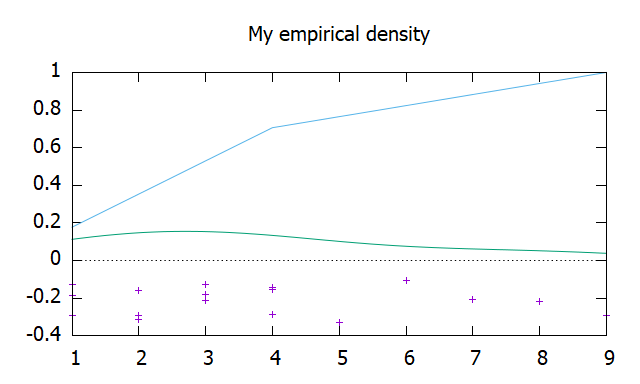
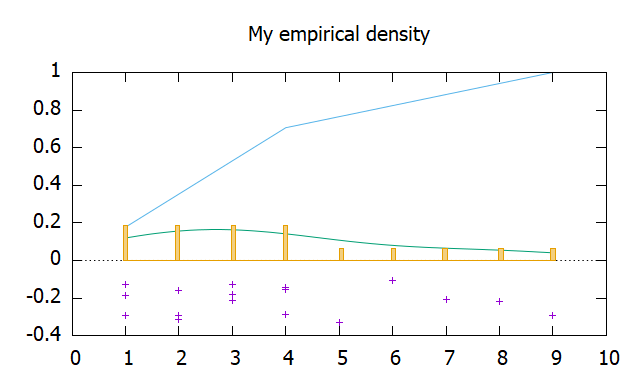
Add bins to density

diff --git a/src/density.rs b/src/density.rs
@@ -68,6 +68,7 @@ where
         config.set_custom("cdf", "true");
         config.set_custom("pdf", "true");
         config.set_custom("cloud", "true");
+        config.set_custom("bins", "true");
 
         Density {
             realizations,
@@ -130,6 +131,25 @@ where
         self
     }
 
+    /// Controls the plotting of bins representation of the density.
+    /// If true, it will appear in the plotting, otherwise it will not.
+    ///
+    /// # Default
+    ///
+    /// The default value is true.
+    /// ```
+    /// # use preexplorer::prelude::*;
+    /// let mut den = pre::Density::new((0..10));
+    /// assert_eq!(den.bins(), true);
+    /// den.set_bins(false);
+    /// assert_eq!(den.bins(), false);
+    /// ```
+    pub fn set_bins(&mut self, cloud: bool) -> &mut Self {
+        self.configuration_mut()
+            .set_custom("bins", cloud.to_string());
+        self
+    }
+
     pub fn cloud(&self) -> bool {
         match self.configuration().custom("cloud") {
             Some(cloud) => std::str::FromStr::from_str(cloud).unwrap(),
@@ -146,6 +166,13 @@ where
     pub fn cdf(&self) -> bool {
         match self.configuration().custom("cdf") {
             Some(cdf) => std::str::FromStr::from_str(cdf).unwrap(),
+            None => unreachable!(),
+        }
+    }
+
+    pub fn bins(&self) -> bool {
+        match self.configuration().custom("bins") {
+            Some(bins) => std::str::FromStr::from_str(bins).unwrap(),
             None => unreachable!(),
         }
     }
@@ -203,15 +230,9 @@ where
 
         gnuplot_script += "set zeroaxis\n";
 
-        // Values for the histogram
-
-        let mut length = 0;
-
         let mut realizations = self.realizations.clone().into_iter();
         match realizations.next() {
             Some(_) => {
-                length += 1 + realizations.len();
-
                 // Gnuplot scrpit
 
                 gnuplot_script +=
@@ -222,6 +243,7 @@ where
                     None => 1,
                 };
 
+                gnuplot_script += "set style fill solid 0.5\n\n";
                 gnuplot_script += "plot ";
                 if self.cloud() {
                     gnuplot_script +=
@@ -232,9 +254,9 @@ where
                         gnuplot_script += ", \\\n\t ";
                     }
                     gnuplot_script += &format!(
-                        "{:?} using 1:({}) smooth kdensity with {} dashtype {}",
+                        "{:?} using 1:(1./{}) smooth kdensity with {} dashtype {}",
                         self.data_path(),
-                        1. / length as f64,
+                        realizations.len(),
                         self.style(),
                         dashtype,
                     );
@@ -244,6 +266,12 @@ where
                         gnuplot_script += ", \\\n\t ";
                     }
                     gnuplot_script += &format!("{:?} using 1:(1.) smooth cnorm", self.data_path(),);
+                }
+                if self.bins() {
+                	if self.cloud() || self.pdf() || self.cdf() {
+                        gnuplot_script += ", \\\n\t ";
+                    }
+                    gnuplot_script += &format!("{:?} using 1:(1./{}) bins with boxes", self.data_path(), realizations.len());
                 }
                 gnuplot_script += "\n";
             }

diff --git a/examples/density/main.rs b/examples/density/main.rs
@@ -5,7 +5,7 @@ fn main() -> anyhow::Result<()> {
 
     pre::Density::new(values)
         .set_title("My empirical density")
-        .plot("my identifier")?;
+        .plot("my_identifier")?;
 
     Ok(())
 }

diff --git a/To do.md b/To do.md
@@ -6,8 +6,7 @@
   - ProcessViolins
 - Interoperability 
   - SequenceViolin/SequenceError <-> with Densities
-    - Carefull with the configuration!!
-- Add bins to Density
+    - Careful with the configuration!!
 - Statistical analysis
   - SequenceError
 

diff --git a/Changelog.md b/Changelog.md
@@ -5,6 +5,7 @@
 - Implement statistical data representation
   - Sequence and Process variants of: bin, error and violin plots.
 - Implement heatmap
+- Add bins to Density
 
 ## 0.3.2
 
